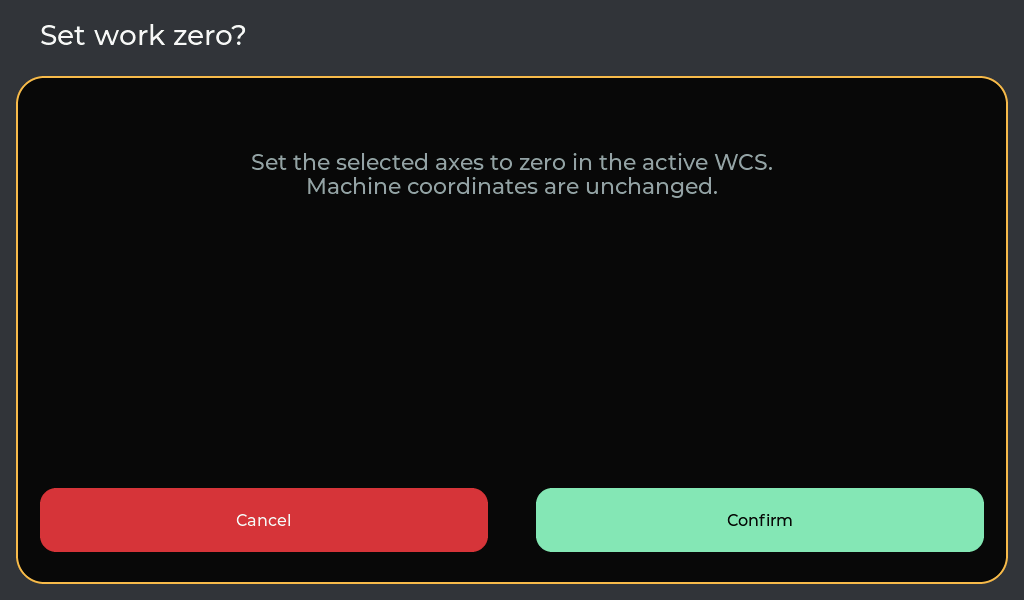
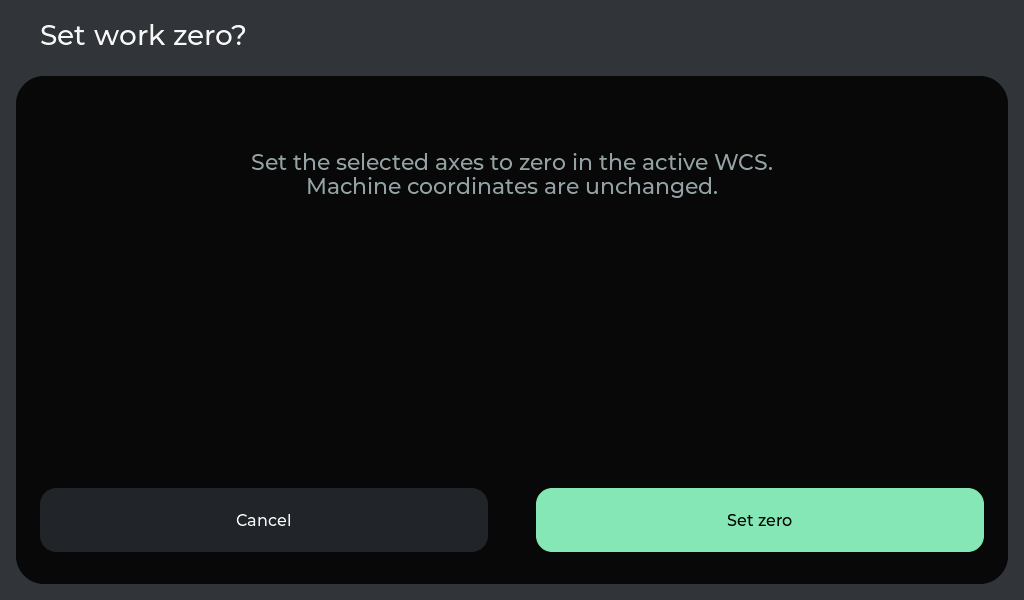
Auto-connect controller and improve continuous jog response

diff --git a/firmware/viewesmart-p4/main/panel_ui.cpp b/firmware/viewesmart-p4/main/panel_ui.cpp
@@ -130,6 +130,7 @@ static lv_obj_t *file_run_buttons[4]={};
 static bool file_run_usable[4]={};
 static lv_obj_t *file_previous=nullptr,*file_next=nullptr,*file_page_label=nullptr;
 static bool continuous = false, jog_held = false;
+static uint32_t jog_pressed_at, jog_hold_ms;
 static lv_obj_t *jog_buttons[10];
 static int jog_count;
 static char home_axis;
@@ -530,12 +531,13 @@ static void notify(const char *s) {
     finish_modal(c);
 }
 static void confirm(const char *title, const char *text, bool (*fn)(), uint32_t accent = AMBER,
-                    const char *action = "Confirm", uint32_t action_color = GREEN) {
+                    const char *action = "Confirm", uint32_t action_color = GREEN, uint32_t cancel_color = RED) {
     auto c = open_modal(title, 1024, 600, accent);
     auto message = label(c, text, 80, 150, 864, 22, MUTED);
     lv_obj_set_style_text_align(message, LV_TEXT_ALIGN_CENTER, 0);
     confirmation = fn;
-    button(c, "Cancel", 40, 488, 448, 64, cancelled, 0, RED);
+    auto cancel = button(c, "Cancel", 40, 488, 448, 64, cancelled, 0, cancel_color);
+    if (cancel_color != RED) lv_obj_add_state(cancel, LV_STATE_USER_2);
     button(c, action, 536, 488, 448, 64, confirmed, 0, action_color);
     finish_modal(c);
 }
@@ -688,6 +690,7 @@ static void release_jog() {
     if (jog_held) {
         jog_held = false;
         result(runtime_action(Action::JogCancel));
+        jog_hold_ms = now() - jog_pressed_at;
     }
 }
 static void jog_event(lv_event_t *e) {
@@ -698,6 +701,7 @@ static void jog_event(lv_event_t *e) {
         bool ok = runtime_action(Action::Jog, directions[(uintptr_t)lv_event_get_user_data(e)],
                                  continuous ? 10000 : jog_step_mm(inches, step_index), jog_speed);
         jog_held = ok && continuous;
+        if (jog_held) jog_pressed_at = now();
         result(ok);
     } else if (lv_event_get_code(e) == LV_EVENT_RELEASED || lv_event_get_code(e) == LV_EVENT_PRESS_LOST) {
         release_jog();
@@ -836,7 +840,7 @@ static void zero_click(lv_event_t *e) {
     zero_axes = (uintptr_t)lv_event_get_user_data(e);
     confirm("Set work zero?",
             "Set the selected axes to zero in the active WCS.\nMachine coordinates are unchanged.",
-            zero_confirm);
+            zero_confirm, PRIMARY, "Set zero", GREEN, CARD);
 }
 static int goto_axes;
 static bool goto_confirm() { return runtime_action(Action::GotoZero, nullptr, goto_axes); }
@@ -1444,9 +1448,30 @@ static void build_page() {
     concept_layout();
     refresh(nullptr);
 }
+static void refresh_dro(bool colors = true) {
+    char work[32], machine[32];
+    for (int i = 0; i < 3; ++i) {
+        if (state.coordinates && state.wco_known) {
+            snprintf(work, sizeof work, "% .3f", state.work[i] / display_scale(inches));
+            snprintf(machine, sizeof machine, "% .3f", state.machine[i] / display_scale(inches));
+        } else {
+            snprintf(work, sizeof work, "--.---");
+            snprintf(machine, sizeof machine, "M  --.---");
+        }
+        if (strcmp(lv_label_get_text(axis_work[i]), work)) lv_label_set_text(axis_work[i], work);
+        if (strcmp(lv_label_get_text(axis_machine[i]), machine)) lv_label_set_text(axis_machine[i], machine);
+        if (colors) lv_obj_set_style_text_color(axis_work[i], lv_color_hex(state.status ? TEXT : MUTED), 0);
+    }
+}
 static void refresh(lv_timer_t *) {
     runtime_snapshot(state);
     hardware_status(state);
+    // Keep the release event responsive instead of restyling the whole page during a held jog.
+    if (jog_held && page == JogPage && !actuator_mode && !modal && state.online && state.status &&
+        !state.alarm && !state.error && (!strcmp(state.mode, "Idle") || !strncmp(state.mode, "Jog", 3))) {
+        refresh_dro(false);
+        return;
+    }
     if (state.sd_active && page != JobPage) {
         close_modal();
         show_page(JobPage);
@@ -1549,18 +1574,7 @@ static void refresh(lv_timer_t *) {
                                              : state.status                    ? 0x6CDB78
                                                                                : 0xBCC6D2),
                                 0);
-    for (int i = 0; i < 3; i++) {
-        if (state.coordinates && state.wco_known) {
-            snprintf(s, sizeof s, "% .3f", state.work[i] / display_scale(inches));
-            lv_label_set_text(axis_work[i], s);
-            snprintf(s, sizeof s, "% .3f", state.machine[i] / display_scale(inches));
-            lv_label_set_text(axis_machine[i], s);
-        } else {
-            lv_label_set_text(axis_work[i], "--.---");
-            lv_label_set_text(axis_machine[i], "M  --.---");
-        }
-        lv_obj_set_style_text_color(axis_work[i], lv_color_hex(state.status ? TEXT : MUTED), 0);
-    }
+    refresh_dro();
     if (state.alarm || state.error)
         lv_obj_add_flag(state_label, LV_OBJ_FLAG_CLICKABLE);
     else
@@ -1753,6 +1767,7 @@ extern "C" void panel_ui_create() {
     lv_obj_set_style_text_font(lv_obj_get_child(stop_btn, 0), font(22), 0);
     lv_obj_add_event_cb(state_label, recover, LV_EVENT_CLICKED, nullptr);
     build_page();
+    runtime_connect((int)prefs.tx, (int)prefs.rx, (int)prefs.baud, usb_connection);
     lv_timer_create(refresh, 100, nullptr);
 }
 extern "C" void panel_ui_settings(char *buffer, size_t size) {
@@ -1768,13 +1783,13 @@ extern "C" void panel_ui_settings(char *buffer, size_t size) {
     for (const auto &m : macros->entries) if (*m.name) ++macro_count;
     snprintf(buffer, size,
              "{\"x\":%.3f,\"y\":%.3f,\"z\":%.3f,\"diameter\":%.3f,\"feed\":%.3f,\"inset\":%.3f,\"tx\":%.0f,\"rx\":%.0f,"
-             "\"baud\":%.0f,\"usb_connection\":%d,\"inches\":%d,\"step\":%d,\"step_mm\":%.3f,\"page\":%d,\"actuator_mode\":%d,\"a_rotary\":%d,\"macro_count\":%u,\"preview_view\":%u,\"local_preview\":%d,\"single_probe\":%d,\"probe_surface\":%u,\"brightness\":%u,\"rgb_ready\":%d,\"rgb_color\":%lu,\"can_setup\":%d,\"probe_open\":%d,\"continuous\":%d,\"mode_checked\":%d,\"scroll_y\":%d,\"dialog\":\"%s\",\"number_value\":%.6f,\"probe_edit_x\":%.6f,\"probe_edit_y\":%.6f,\"probe_edit_z\":%.6f,\"probe_edit_feed\":%.6f,\"probe_edit_inset\":%.6f,\"header_x\":%d,\"header_y\":%d,\"header_w\":%d,\"header_h\":%d,\"form_w\":%d,\"form_h\":%d,\"form_kind\":\"%s\"}",
+             "\"baud\":%.0f,\"usb_connection\":%d,\"inches\":%d,\"step\":%d,\"step_mm\":%.3f,\"page\":%d,\"actuator_mode\":%d,\"a_rotary\":%d,\"macro_count\":%u,\"preview_view\":%u,\"local_preview\":%d,\"single_probe\":%d,\"probe_surface\":%u,\"brightness\":%u,\"rgb_ready\":%d,\"rgb_color\":%lu,\"can_setup\":%d,\"probe_open\":%d,\"continuous\":%d,\"mode_checked\":%d,\"jog_speed\":%u,\"jog_hold_ms\":%lu,\"scroll_y\":%d,\"dialog\":\"%s\",\"number_value\":%.6f,\"probe_edit_x\":%.6f,\"probe_edit_y\":%.6f,\"probe_edit_z\":%.6f,\"probe_edit_feed\":%.6f,\"probe_edit_inset\":%.6f,\"header_x\":%d,\"header_y\":%d,\"header_w\":%d,\"header_h\":%d,\"form_w\":%d,\"form_h\":%d,\"form_kind\":\"%s\"}",
              prefs.probe.x, prefs.probe.y, prefs.probe.z, prefs.probe.diameter, prefs.probe.feed, prefs.probe.inset, prefs.tx,
              prefs.rx, prefs.baud, usb_connection, inches, step_index, jog_step_mm(inches, step_index), page, actuator_mode, a_rotary, macro_count, cached_view, local_preview_show, single_probe, probe_surface_choice, screen_brightness, hardware_led_ready(), (unsigned long)hardware_led_color(), ready(), probe_start != nullptr, continuous,
              page == JogPage && !actuator_mode && mode_choices
                  ? (lv_buttonmatrix_has_button_ctrl(mode_choices, 1, LV_BUTTONMATRIX_CTRL_CHECKED) ? 1
                     : lv_buttonmatrix_has_button_ctrl(mode_choices, 0, LV_BUTTONMATRIX_CTRL_CHECKED) ? 0 : -1)
-                 : -1, body ? lv_obj_get_scroll_y(body) : 0, dialog,
+                 : -1, jog_speed, (unsigned long)jog_hold_ms, body ? lv_obj_get_scroll_y(body) : 0, dialog,
              number ? strtof(lv_textarea_get_text(number),nullptr) : 0.0,
              probe_offsets_open ? strtof(lv_textarea_get_text(probe_offset_fields[0]),nullptr) : 0.0,
              probe_offsets_open ? strtof(lv_textarea_get_text(probe_offset_fields[1]),nullptr) : 0.0,

diff --git a/tools/check-controller-boot.py b/tools/check-controller-boot.py
@@ -1,0 +1,77 @@
+"""Check automatic USB controller connection after pendant boots; no motion or unlock."""
+import argparse
+import importlib.util
+import json
+import time
+from pathlib import Path
+import serial
+
+parser = argparse.ArgumentParser(description=__doc__)
+parser.add_argument('--port', default='COM12')
+parser.add_argument('--cycles', type=int, default=2)
+parser.add_argument('--watch-controller-reset', action='store_true')
+args = parser.parse_args()
+spec = importlib.util.spec_from_file_location('remote', Path(__file__).with_name('ui-remote.py'))
+r = importlib.util.module_from_spec(spec)
+spec.loader.exec_module(r)
+p = serial.Serial(port=None, baudrate=115200, timeout=1, write_timeout=5)
+p.dtr = p.rts = False
+p.port = args.port
+
+def cmd(text):
+    return r.debug(p, text)
+
+def data(text):
+    for attempt in range(3):
+        try:
+            return json.loads(cmd(text).removeprefix('@UGDATA '))
+        except json.JSONDecodeError:
+            if attempt == 2:
+                raise
+            print('Retrying read-only snapshot after interleaved console log', flush=True)
+
+def sync():
+    p.write(b'\nUG SYNC\n')
+    time.sleep(.4)
+    p.reset_input_buffer()
+
+def connected(timeout=35, generation=None):
+    end = time.monotonic() + timeout
+    while time.monotonic() < end:
+        u, s = data('USB STATE'), data('STATE')
+        if u['connected'] and s['online'] and s['identified'] and s['ready']:
+            if generation is None or u['generation'] > generation:
+                assert not s['job'] and not s['local_job'] and not s['probing'], s
+                return u, s
+        time.sleep(.4)
+    raise AssertionError(('Automatic connection timed out', u, s))
+
+try:
+    p.open()
+    r.buffered_lines(p)
+    sync()
+    assert data('PREFS')['usb_connection'], 'Select USB3 before this live development-board check'
+    initial = data('STATE')
+    assert not any(initial[k] for k in ('job','local_job','probing','macro_running')) and initial['repeat_axis'] < 0, 'Stop active work before this reboot check'
+    for cycle in range(args.cycles):
+        p.rts = True
+        time.sleep(.15)
+        p.rts = False
+        time.sleep(5)
+        sync()
+        cmd('TOUCH OFF')
+        u, s = connected()
+        if s['alarm']:
+            assert data('PREFS')['form_kind'] == 'confirmation', 'Startup alarm did not open its confirmation'
+        print('PASS automatic connection after pendant boot', cycle + 1, u['generation'], flush=True)
+    if args.watch_controller_reset:
+        baseline = data('USB STATE')['generation']
+        print('WAITING: reset only the controller now; pendant must remain powered', flush=True)
+        u, s = connected(timeout=300, generation=baseline)
+        print('PASS controller USB re-enumeration recovered automatically', u['generation'], flush=True)
+finally:
+    if p.is_open:
+        try:
+            cmd('TOUCH ON')
+        finally:
+            p.close()

diff --git a/firmware/viewesmart-p4/main/panel_usb.cpp b/firmware/viewesmart-p4/main/panel_usb.cpp
@@ -27,7 +27,8 @@ static std::atomic<bool> enabled{false}, connected{false}, lost{false};
 static std::atomic<uint32_t> generation{0}, received{0}, transmitted{0};
 static std::atomic<unsigned> vid{0}, pid{0};
 static std::atomic<int> last_error{0};
-static uint32_t next_open;
+static uint32_t next_open, open_failed_at;
+static bool port_off;
 static bool control_active;
 
 static void host_task(void *) {
@@ -120,6 +121,13 @@ void usb_poll() {
         } else { last_error = err; lost = true; }
     }
     uint32_t now = xTaskGetTickCount() * portTICK_PERIOD_MS;
+    if (port_off) {
+        if (int32_t(now - next_open) >= 0) {
+            last_error = usb_host_lib_set_root_port_power(true);
+            port_off = false;
+        }
+        xSemaphoreGive(lock); return;
+    }
     if (enabled && !device && int32_t(now - next_open) >= 0) {
         next_open = now + 1000; lost = false;
         cdc_acm_host_device_config_t config = {};
@@ -136,10 +144,20 @@ void usb_poll() {
             // Allow native CDC firmware to observe DTR before the first identification query.
             if (err == ESP_OK) vTaskDelay(pdMS_TO_TICKS(100));
             if (err == ESP_OK && enabled && !lost) {
-                last_error = 0; control_active = true; connected = true; generation++;
+                last_error = 0; open_failed_at = 0; control_active = true; connected = true; generation++;
                 ESP_LOGI("panel_usb", "CDC ACM connected, interface 0");
             } else { last_error = err; connected = false; lost = true; }
-        } else last_error = err;
+        } else {
+            last_error = err;
+            if (!open_failed_at) open_failed_at = now;
+            // A fast controller reboot can leave the root port waiting for enumeration.
+            if (now - open_failed_at >= 5000 && usb_dwc_ll_hprt_get_conn_status(USB_DWC_LL_GET_HW(HostController))) {
+                esp_err_t power_err = usb_host_lib_set_root_port_power(false);
+                ESP_LOGW("panel_usb", "Recovering USB enumeration: %s", esp_err_to_name(power_err));
+                if (power_err == ESP_OK) { port_off = true; next_open = now + 250; }
+                open_failed_at = 0;
+            }
+        }
     }
     xSemaphoreGive(lock);
 }

diff --git a/tools/check-jog-response.py b/tools/check-jog-response.py
@@ -1,0 +1,39 @@
+"""Check continuous-jog release timing in isolated demo mode; no physical motion."""
+import argparse, importlib.util, json, time
+from pathlib import Path
+import serial
+parser=argparse.ArgumentParser(description=__doc__)
+parser.add_argument('--port',default='COM12')
+a=parser.parse_args()
+spec=importlib.util.spec_from_file_location('remote',Path(__file__).with_name('ui-remote.py'))
+r=importlib.util.module_from_spec(spec);spec.loader.exec_module(r)
+p=serial.Serial(port=None,baudrate=115200,timeout=1,write_timeout=5);p.dtr=p.rts=False;p.port=a.port
+
+def cmd(t):return r.debug(p,t)
+def data(t='PREFS'):return json.loads(cmd(t).removeprefix('@UGDATA '))
+def tap(x,y):r.exchange(p,'tap',point=(x,y));time.sleep(.3)
+def idle():cmd('RX <Idle|MPos:100,0,0|WCO:0,0,0|FS:0,0|Pn:i>');time.sleep(.2)
+original=None
+try:
+ p.open();r.buffered_lines(p);p.write(b'\nUG SYNC\n');time.sleep(.5);p.reset_input_buffer()
+ original=data();assert not original['actuator_mode'],'CNC layout required'
+ cmd('DEMO ON');cmd('TOUCH OFF');idle()
+ for _ in range(5):
+  kind=data()['form_kind']
+  if kind=='none':break
+  tap(264,520) if kind=='confirmation' else tap(976,32)
+ tap(116,566);idle();tap(878,154)
+ assert data()['continuous']
+ for hold in (60,100,150):
+  idle();cmd(f'HOLD 575 379 {hold}')
+  d=data();assert '0x85' in cmd('LAST'),'Release did not cancel jog'
+  assert hold<=d['jog_hold_ms']<hold+150,d
+  print('PASS held',hold,'ms; cancel sent at',d['jog_hold_ms'],'ms',flush=True)
+finally:
+ if p.is_open:
+  try:
+   cmd('DEMO ON');idle()
+   if original and data()['page']==0:
+    tap(878 if original['continuous'] else 638,154)
+   cmd('TOUCH ON')
+  finally:p.close()

diff --git a/firmware/viewesmart-p4/main/panel_runtime.cpp b/firmware/viewesmart-p4/main/panel_runtime.cpp
@@ -276,8 +276,17 @@ static void worker(void *) {
             usb_seen = usb_generation();
             cancel_upload("USB connection changed during SD upload");
             used = 0; overflow = false; pending = false; pending_count = 0;
-            if (usb_connected()) model.begin(now());
-            else model.disconnect();
+            model.disconnect();
+        }
+        if (!demo && link_ready() && !model.state.online) {
+            // Retry identification after reset/timeouts, without resuming interrupted work.
+            bool job_failed = model.state.job_failed || model.state.sd_active;
+            bool macro_failed = model.state.macro_failed;
+            used = 0; overflow = false; pending = false; pending_count = 0;
+            model.begin(now());
+            model.state.job_failed |= job_failed;
+            model.state.macro_failed |= macro_failed;
+            if (job_failed || macro_failed) model.state.error = 1;
         }
         if (link_ready() && !demo) {
             uart_event_t event;

diff --git a/firmware/viewesmart-p4/main/panel_model.cpp b/firmware/viewesmart-p4/main/panel_model.cpp
@@ -56,7 +56,7 @@ static const char *fault_text(bool alarm, int code) {
         case 9:
             return "Homing did not find the limit switch.";
         case 10:
-            return "Emergency stop asserted. Clear the input and reset.";
+            return "Emergency stop or power loss. Clear the cause and reset.";
         case 11:
             return "Homing required. Clear travel and home the machine.";
         default:

diff --git a/docs/live-controller-test-plan.md b/docs/live-controller-test-plan.md
@@ -51,3 +51,12 @@ For every executed case record **pass**, **fail** or **not tested**, firmware re
 - Ooznest Control: js/machine/webserial.js (byte accounting), js/ui/alarms_and_errors.js (normal/critical unlock), and the corresponding jog, SD and probing handlers.
 - Pendant: firmware/viewesmart-p4/main/panel_stream.cpp, panel_model.cpp, panel_runtime.cpp and panel_usb.cpp.
 - Existing checks: tools/check-usb.py, tools/check-workflow.py, tools/check-display-sd.py, tools/check-machine-settings.py and tools/check-probe-surfaces.py.
+
+## 2026-10-26 follow-up
+
+- Automatic USB connection passed two pendant reboot cycles, including the startup alarm confirmation.
+- A logged physical controller power cycle reconnected automatically (USB generation 1 to 4), returned Alarm 11, and left the LCD running. Alarm 10 during power loss is expected on this controller.
+- An earlier power-cycle attempt left the port unable to open; root-port enumeration recovery was added. An LCD restart (panic reset reason 4) was also observed once; the latest full UART capture did not reproduce it. Keep the full UART logger active during further reset/soak tests to obtain a backtrace if it recurs; do not mark this intermittent restart explained.
+- Before the held-jog redraw fix, a requested 60 ms Slow jog held the UI for 882 ms and moved 45.24 mm on the bare board. With the same feed preset after the fix, 60/100/150 ms requests moved 1.75/2.92/4.38 mm. Host command round-trip includes later rendering; it is not the cancel-transmission timestamp.
+- The embedded timing check subsequently measured cancel transmission at 65/100/150 ms for 60/100/150 ms holds in isolated demo mode. Slow remains 25% of the moving axes' maximum rate, matching Ooznest Control. No controller settings or offsets were changed by these jog trials.
+- Full embedded model tests passed, including stream window/fault/fresh-Idle completion checks. Live job streaming remains pending.

diff --git a/AGENTS.md b/AGENTS.md
@@ -508,3 +508,7 @@ Full-screen pages poll only their visible controls; do not repeatedly restyle
 whole lists from enable() or redraw hidden Jog controls behind an opaque page.
 
 USB3 CDC ACM host uses peripheral_map bit 1 and GPIO24/25, routed with usb_serial_jtag_ll_phy_select(1). Reserve the USB host/class tasks before UI widgets; keep CDC buffers at 256 bytes and usb_host_cdc_acm 2.4.1 for safe allocation-failure cleanup. Demo mode disables both controller transports. UG USB STATE reports enumeration and traffic. RP2350 2E8A:000A identification, feedback and reconnect were verified; motion remains untested. Normal boot locks unlock with $X, as in Ooznest performUnlock; do not reset or home automatically.
+
+The selected controller transport connects on pendant boot. Explicit Disconnect suppresses retries until Connect or reboot; demo mode remains fully isolated. USB re-enumeration and identification timeout retry only identification, never interrupted jobs/macros. A persistent USB open failure with a physically present device cycles root-port power through the SDK, without changing the controller's supply or settings. tools/check-controller-boot.py checks startup and can watch a physical controller reset; capture complete UART output for any LCD restart.
+
+During held CNC jogs refresh updates changed DRO text only; do not restyle the full page in that path. UG PREFS exposes jog_speed and jog_hold_ms (press to completed cancel transmission). tools/check-jog-response.py checks release timing in demo mode and leaves demo isolated. Zeroing confirmation has a neutral title/card and Cancel with a green Set zero action; USER_2 marks its explicitly neutral Cancel so the full-screen styling does not force it red. Fault dialogs retain their red styling.

diff --git a/docs/hardware-and-protocol.md b/docs/hardware-and-protocol.md
@@ -64,3 +64,7 @@ A normal startup alarm is released by explicit Unlock (`$X`), following Ooznest 
 USB3 was built against this workstation's ESP-IDF 5.3.4 tree with P4 full-speed host support. Stock older SDK support and other CDC ACM controllers have not been verified. The CH340 UART socket remains separate from the native USB host.
 
 Logical Disconnect disables application TX/RX and lowers DTR while retaining the claimed CDC interface. Reconnect starts a fresh model identification without recreating USB endpoints. Physical loss or a transport error closes the handle. This avoids the intermittent reopen failure observed during repeated logical sessions.
+
+The selected connection starts on pendant boot. Identification retries after a timeout while the link remains enabled. Explicit Disconnect disables retries for that session; the next boot connects again. USB open failures lasting five seconds with a device physically present trigger an SDK root-port power cycle to restart enumeration. Neither reconnect nor boot unlocks an alarm or resumes queued work.
+
+The bare controller reports Alarm 10 for its power monitor as well as E-stop. Preserve that fault and require user confirmation; do not infer which physical cause occurred from the number alone.

diff --git a/README.md b/README.md
@@ -129,6 +129,7 @@ for reconnection. The header shows the connected SSID and IP address.
 - Controller UART defaults: TX GPIO37, RX GPIO38, 115200 baud; configurable in Settings.
 - USB3 CDC ACM host connection: tested with an RP2350 grblHAL controller (2E8A:000A). USB UART remains available for programming and development tools.
 - Startup alarms open an Unlock confirmation; unlocking does not establish a homed position.
+- The selected controller connection starts on boot and reconnects after USB re-enumeration. Interrupted jobs do not resume automatically.
 
 This is firmware under development. The interface and Wi-Fi have been exercised
 on the display. Physical controller motion, probing and SD transfers still need
